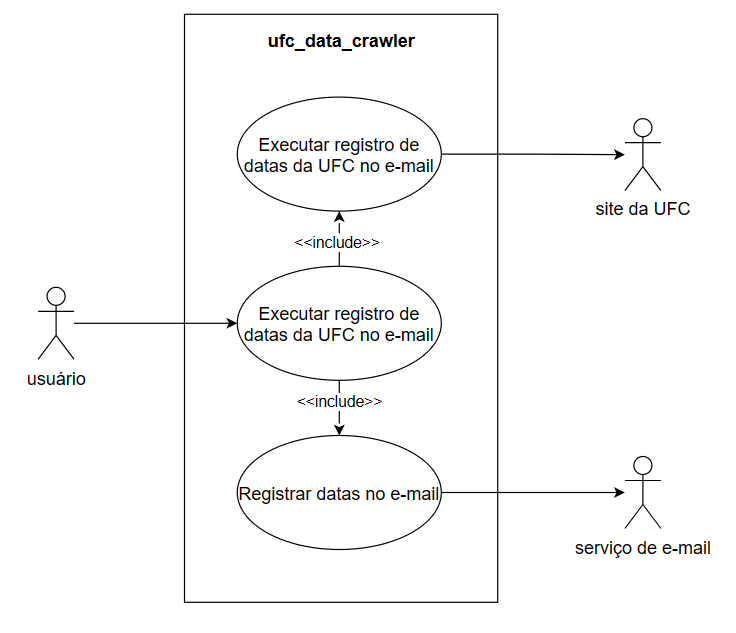
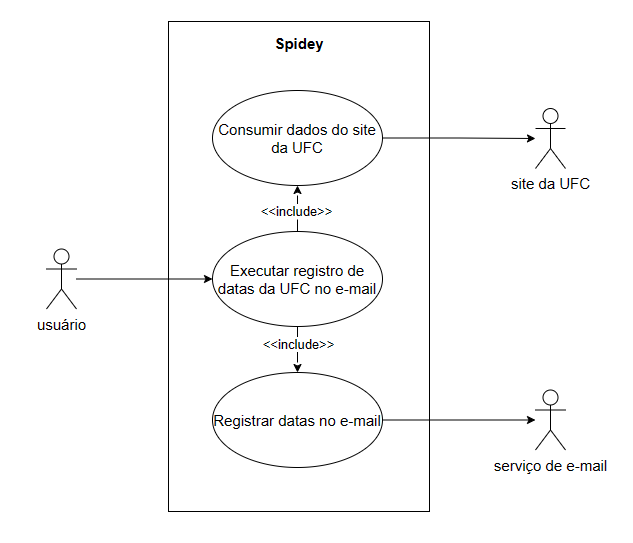
feat: adding classes diagram to Spidey

diff --git a/docs/_architecture/index.rst b/docs/_architecture/index.rst
@@ -1,10 +1,16 @@
 Arquitetura
 ===========
 
-Aqui está um exemplo de arquitetura
+Aqui segue o diagrama de caso de uso do Spidey
 
 .. figure:: imgs/diagrama_de_caso_de_uso.PNG
    :alt: Diagrama de caso de uso do ufc_data_crawler
    :figclass: align-center
    
    Diagrama de caso de uso do ufc_data_crawler
+
+.. toctree::
+   :maxdepth: 2
+   :caption: Arquitetura técnica:
+
+   _technical_arquiteture/index

diff --git a/docs/_architecture/_technical_arquiteture/index.rst b/docs/_architecture/_technical_arquiteture/index.rst
@@ -1,0 +1,10 @@
+Arquitetura ténica
+==================
+
+Segue o diagrama de classes do Spidey:
+
+.. figure:: imgs/diagrama_de_classes.jpg
+   :alt: Diagrama de classes do Spidey
+   :figclass: align-center
+   
+   Diagrama de classes do Spidey
